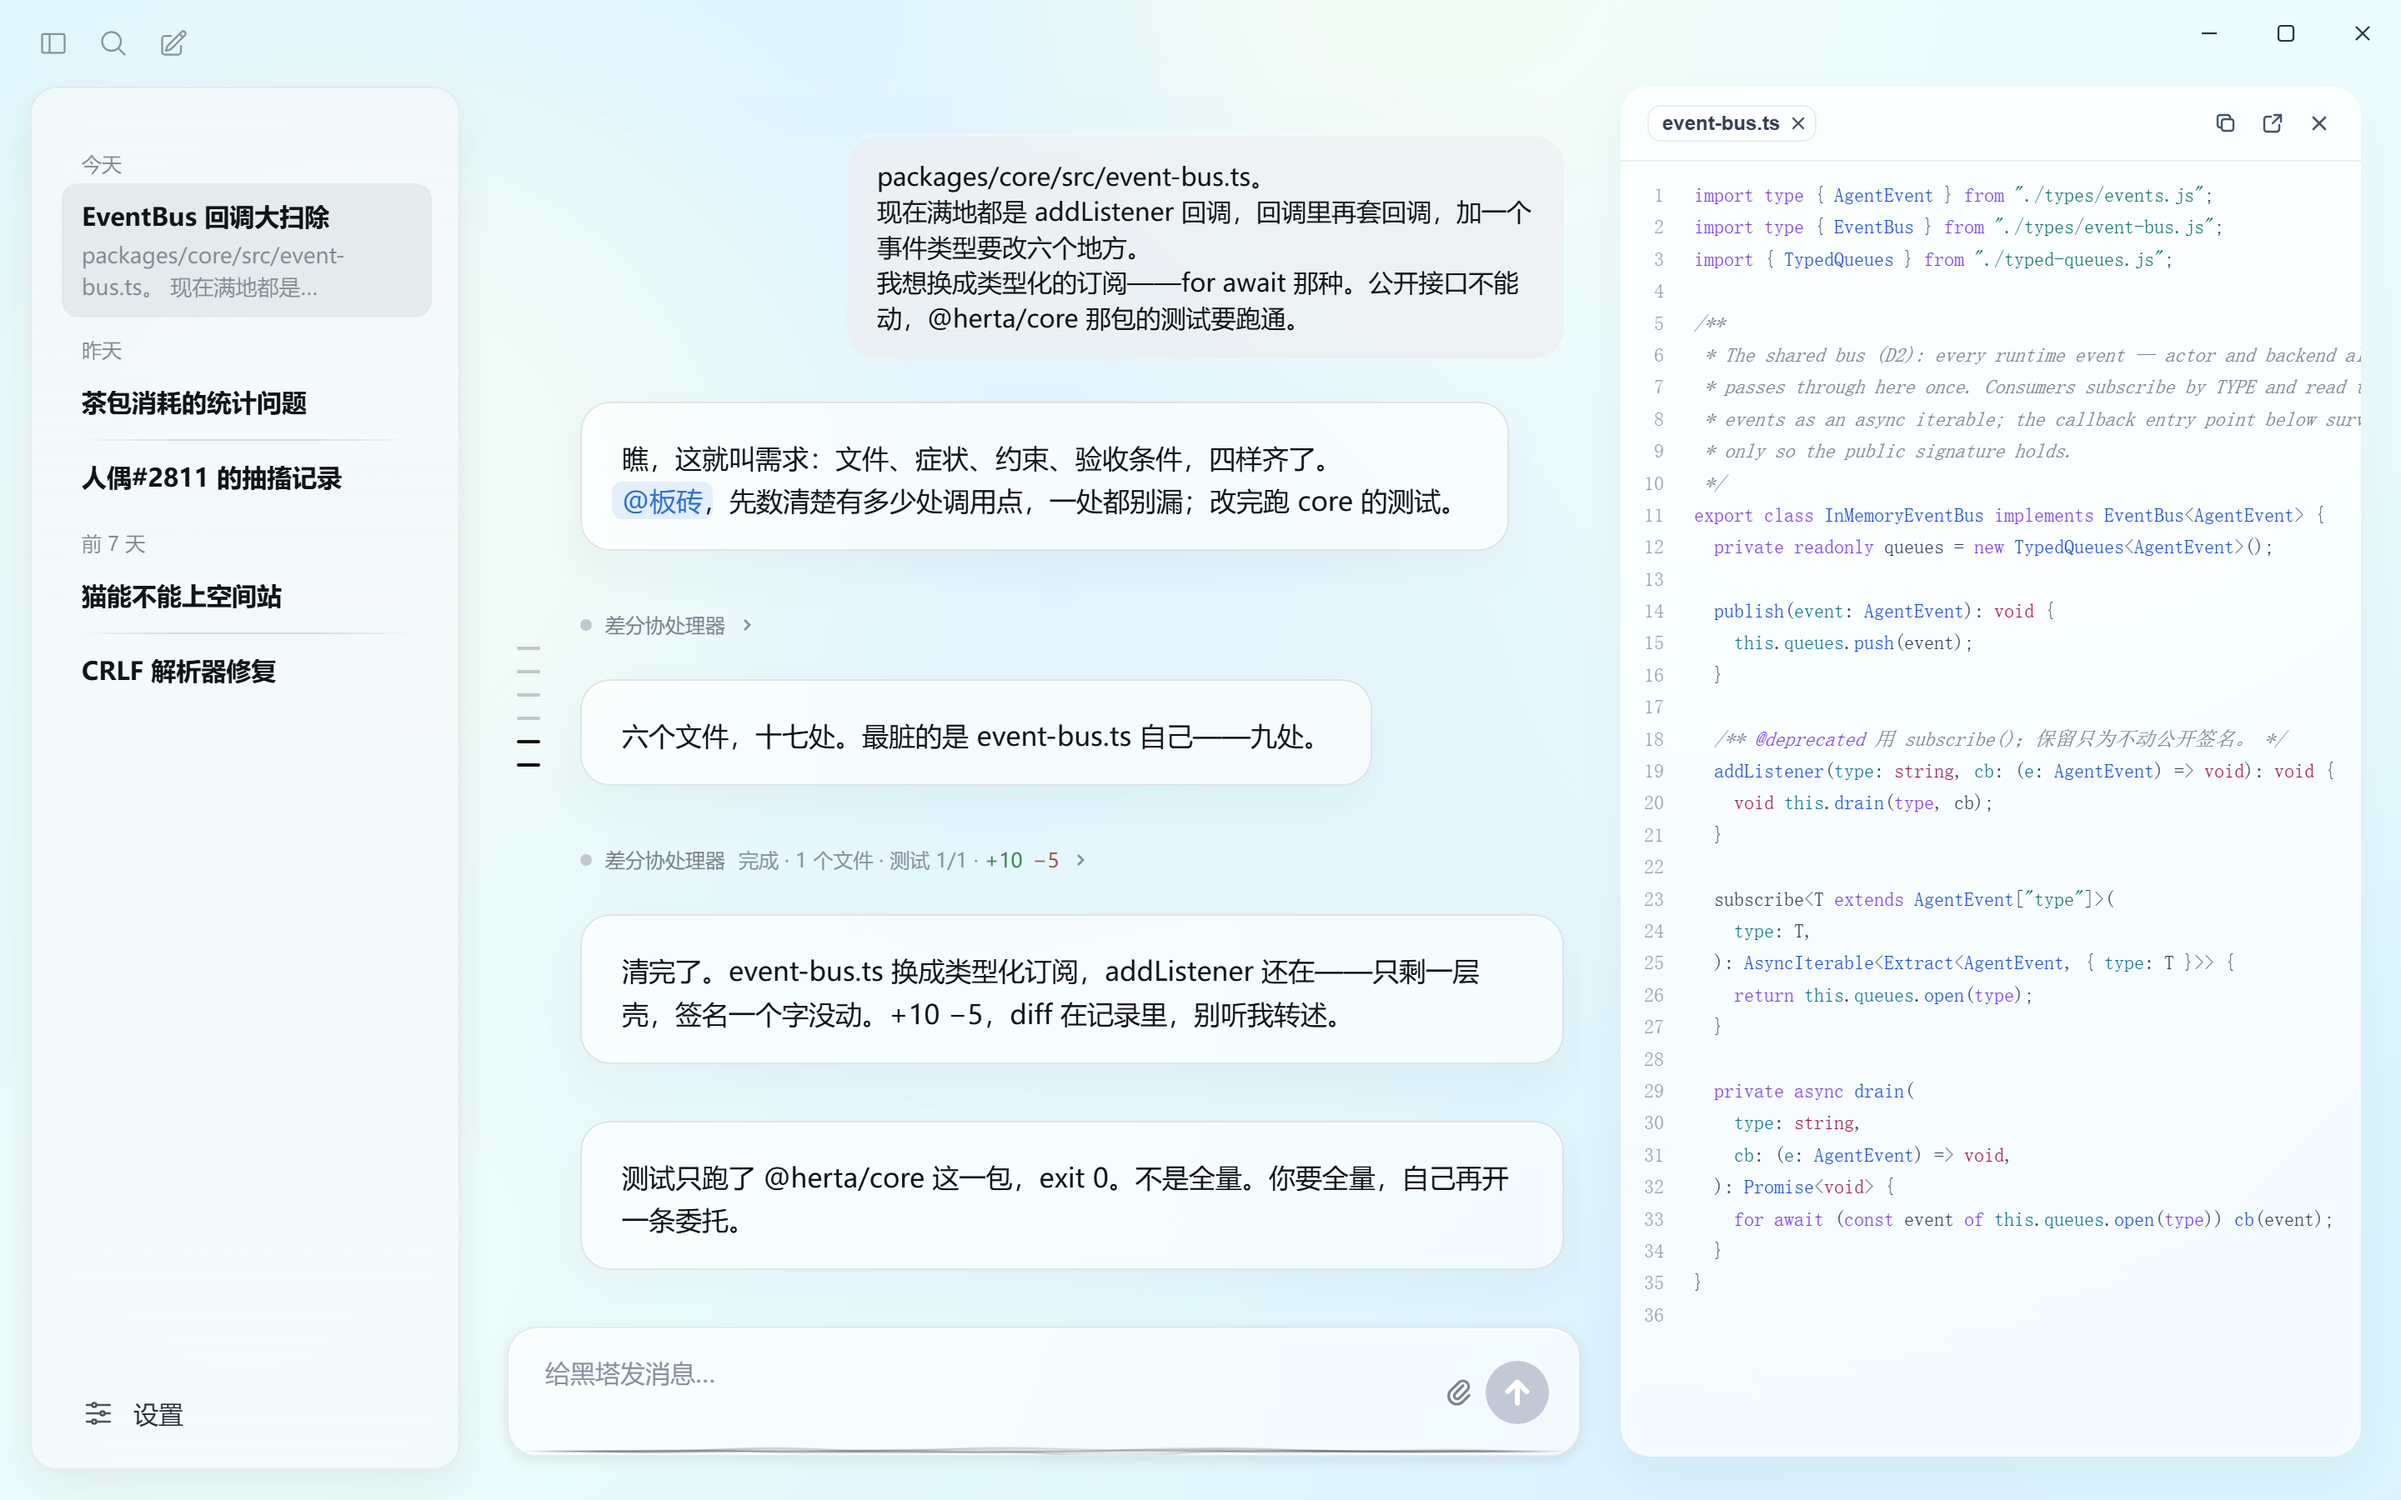
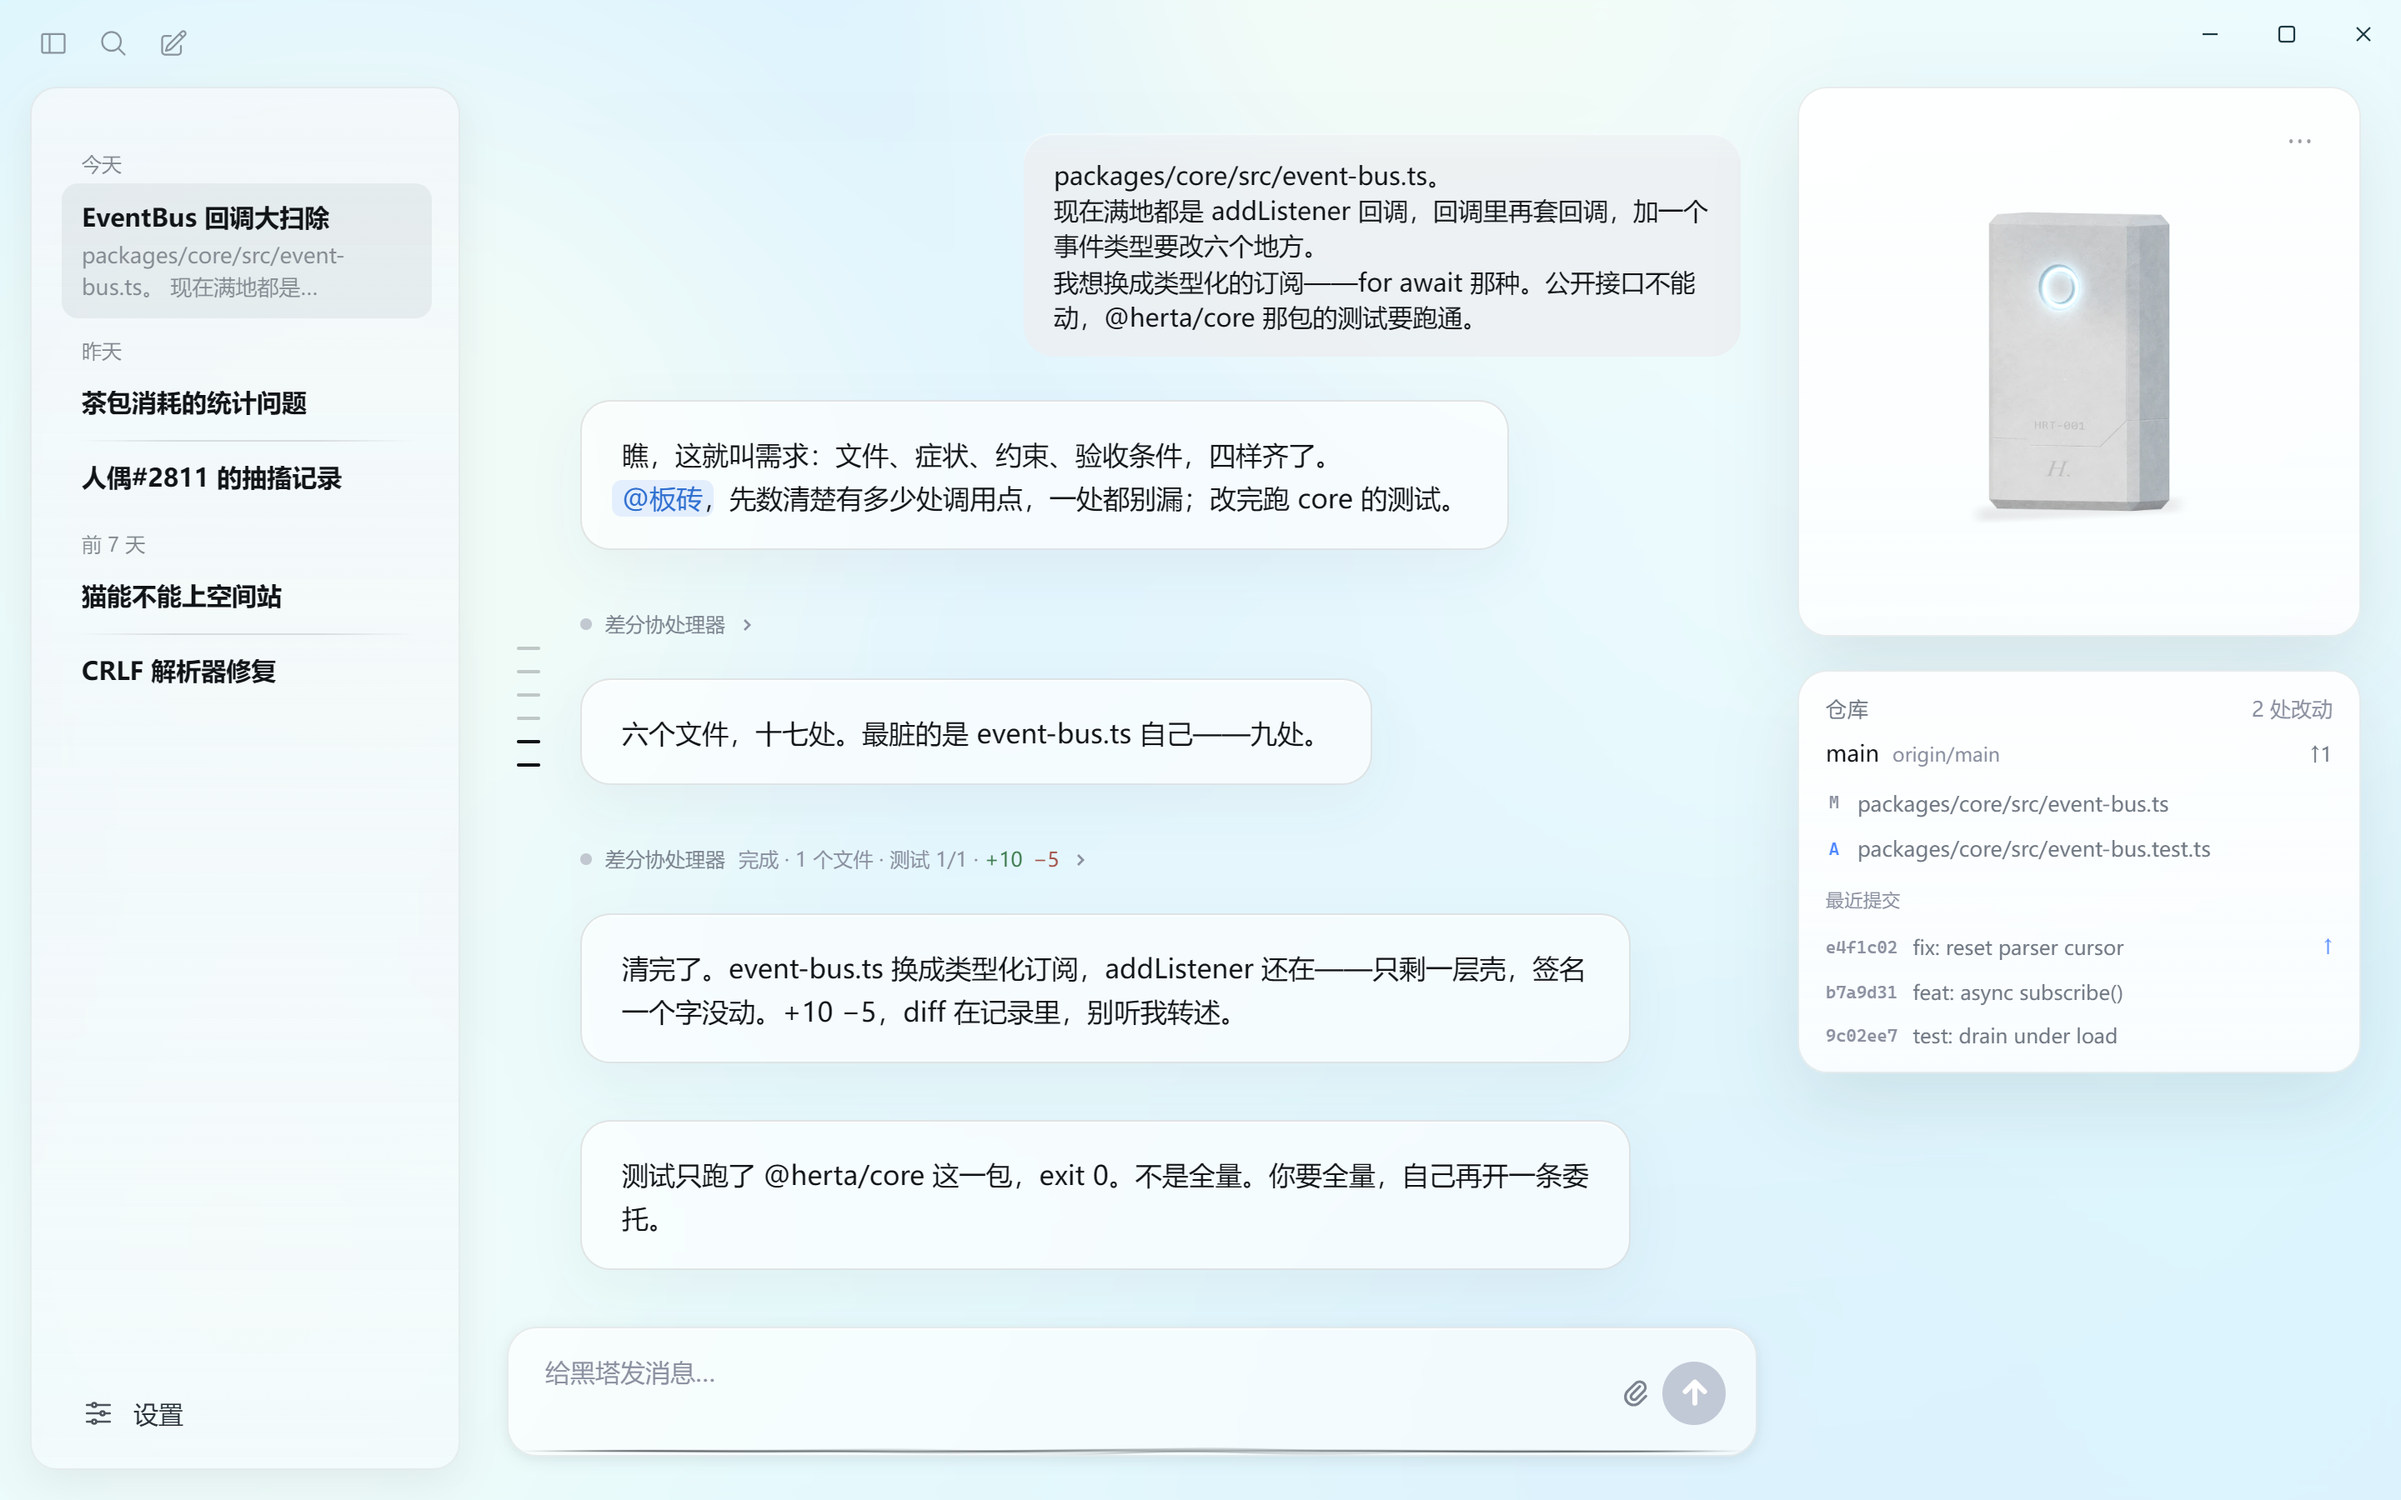
feat(website): the desk section is the terminal, in the owner's words; the phone posters show the 0.1.5 app
The owner's copy pass over the new section (2026-09-10): the nav and
kicker say 终端 / the terminal, the heading 动态终端 / A live terminal,
the lead names the three features flat — PBR-rendered coprocessor
device, the Git repository fitted to the workspace, real-time voice
local or cloud — and the three card bodies are trimmed to match (the
device card no longer counts its four moments, the voice card no longer
narrates the veto, the download or MiniMax). English mirrors the Chinese.

The four narrow-screen posters were the 0.1.4 captures with the file
viewer open and no rail. Recaptured from the built demo at 1440x900 @2x
with ?poster=1: the showcase session with the device card and the
repository card in the rail, her closing line settled. PNG masters
replaced, WebP twins re-encoded at 1640 wide q85 (67–72 KB each, were
92–99 KB).

diff --git a/website/src/Site.tsx b/website/src/Site.tsx
@@ -424,7 +424,7 @@ const ZH: SiteCopy = {
   navWhy: "为什么",
   navSelf: "自我与记忆",
   navMech: "机制",
-  navDesk: "工作台",
+  navDesk: "终端",
   navTech: "技术",
   navDl: "下载",
   langToggle: "EN",
@@ -535,10 +535,9 @@ const ZH: SiteCopy = {
   dreamAlt: "入梦循环：离开触发、四道门控、写入自传、下次开场随身携带",
   visionAlt:
     "她的自传：身份、记忆、世界、现在——三个时间尺度的循环持续续写同一份第一人称文本",
-  deskKicker: "工作台 · what she works in",
-  deskH2: "看得见的工作台。",
-  deskLead:
-    "0.1.5 里的三处变化：协处理器的设备成了一件被光照着的物体，仓库就在手边，而她开口说话。",
+  deskKicker: "终端 · the live terminal",
+  deskH2: "动态终端。",
+  deskLead: "差分协处理器 PBR 动态渲染，Git 仓库适配，本地/云端实时语音。",
   desk: [
     {
       id: "device",
@@ -546,7 +545,7 @@ const ZH: SiteCopy = {
       sub: "PBR 渲染 · a lit object",
       body:
         "协处理器的设备卡片按物理渲染：随本地时钟从清晨走到深夜，云影拂过白色的房间，" +
-        "工作时呼吸，出错时闪动。这里是它一天里的四个时刻。",
+        "工作时呼吸，出错时闪动。",
       alt: "板砖设备卡片在清晨、正午、黄昏与深夜的四张渲染",
     },
     {
@@ -554,7 +553,7 @@ const ZH: SiteCopy = {
       title: "Git 前端",
       sub: "the repository at hand",
       body:
-        "工作区的仓库就在栏里：分支与上游、未提交的改动、最近的提交，实时更新。" +
+        "工作区适配 Git 仓库：分支与上游、未提交的改动、最近的提交，实时更新。" +
         "点一处改动看它的差异，点一个提交看它改了什么，翻历史不用离开对话。",
       alt: "仓库卡片，以及在对话旁边打开的提交标签页",
     },
@@ -562,9 +561,7 @@ const ZH: SiteCopy = {
       id: "voice",
       title: "实时语音",
       sub: "she speaks · in step with the text",
-      body:
-        "她的回复由本地模型实时合成，文字随语音同步显示；被否掉的那一句，由她自己的声音收回。" +
-        "模型按需下载（76 MB）；也可接入 MiniMax 云端音色。",
+      body: "本地模型或云端实时语音合成，文字随语音同步显示。",
       alt: "她说话时的对话与输入栏：文字随语音显示，声波在输入栏里起伏",
     },
   ],
@@ -627,7 +624,7 @@ const EN: SiteCopy = {
   navWhy: "Why",
   navSelf: "Self & memory",
   navMech: "Mechanisms",
-  navDesk: "The desk",
+  navDesk: "The terminal",
   navTech: "Technical",
   navDl: "Download",
   langToggle: "中",
@@ -756,10 +753,10 @@ const EN: SiteCopy = {
     "The dream cycle: triggered while away, four gates, written into her autobiography, carried into the next opening",
   visionAlt:
     "Her autobiography: identity, memory, world, present — loops on three timescales keep writing one first-person text",
-  deskKicker: "the desk · 工作台",
-  deskH2: "A desk you can see.",
+  deskKicker: "the terminal · 终端",
+  deskH2: "A live terminal.",
   deskLead:
-    "Three things changed in 0.1.5: the coprocessor's device became a lit object, the repository sits at hand, and she speaks.",
+    "The coprocessor's device rendered live in PBR, the Git repository fitted to the workspace, real-time voice local or cloud.",
   desk: [
     {
       id: "device",
@@ -768,7 +765,7 @@ const EN: SiteCopy = {
       body:
         "The coprocessor's device card is physically rendered: it follows the local clock from " +
         "morning to night, clouds drift across the white room, it breathes while working and " +
-        "flashes on failure. Four moments of its day.",
+        "flashes on failure.",
       alt: "The coprocessor's device card rendered at morning, noon, dusk and night",
     },
     {
@@ -776,7 +773,7 @@ const EN: SiteCopy = {
       title: "The repository at hand",
       sub: "Git 前端",
       body:
-        "The workspace's repository sits in the rail: branch and upstream, uncommitted changes, " +
+        "The workspace fits its Git repository: branch and upstream, uncommitted changes, " +
         "recent commits — kept live. Click a change for its diff, a commit for what it touched, " +
         "page the history, without leaving the conversation.",
       alt: "The repository card, and a commit tab opened beside the conversation",
@@ -786,9 +783,8 @@ const EN: SiteCopy = {
       title: "She speaks",
       sub: "实时语音 · in step with the text",
       body:
-        "Her replies are synthesized in real time by a local model, the text revealed in step " +
-        "with her voice; a line she takes back, she takes back in her own voice. The model " +
-        "downloads on demand (76 MB); a MiniMax cloud voice can be added.",
+        "Real-time speech synthesized by a local model or in the cloud, the text revealed in " +
+        "step with her voice.",
       alt: "The conversation and the composer while she speaks: text keeping step with the voice, the wave moving in the composer",
     },
   ],
